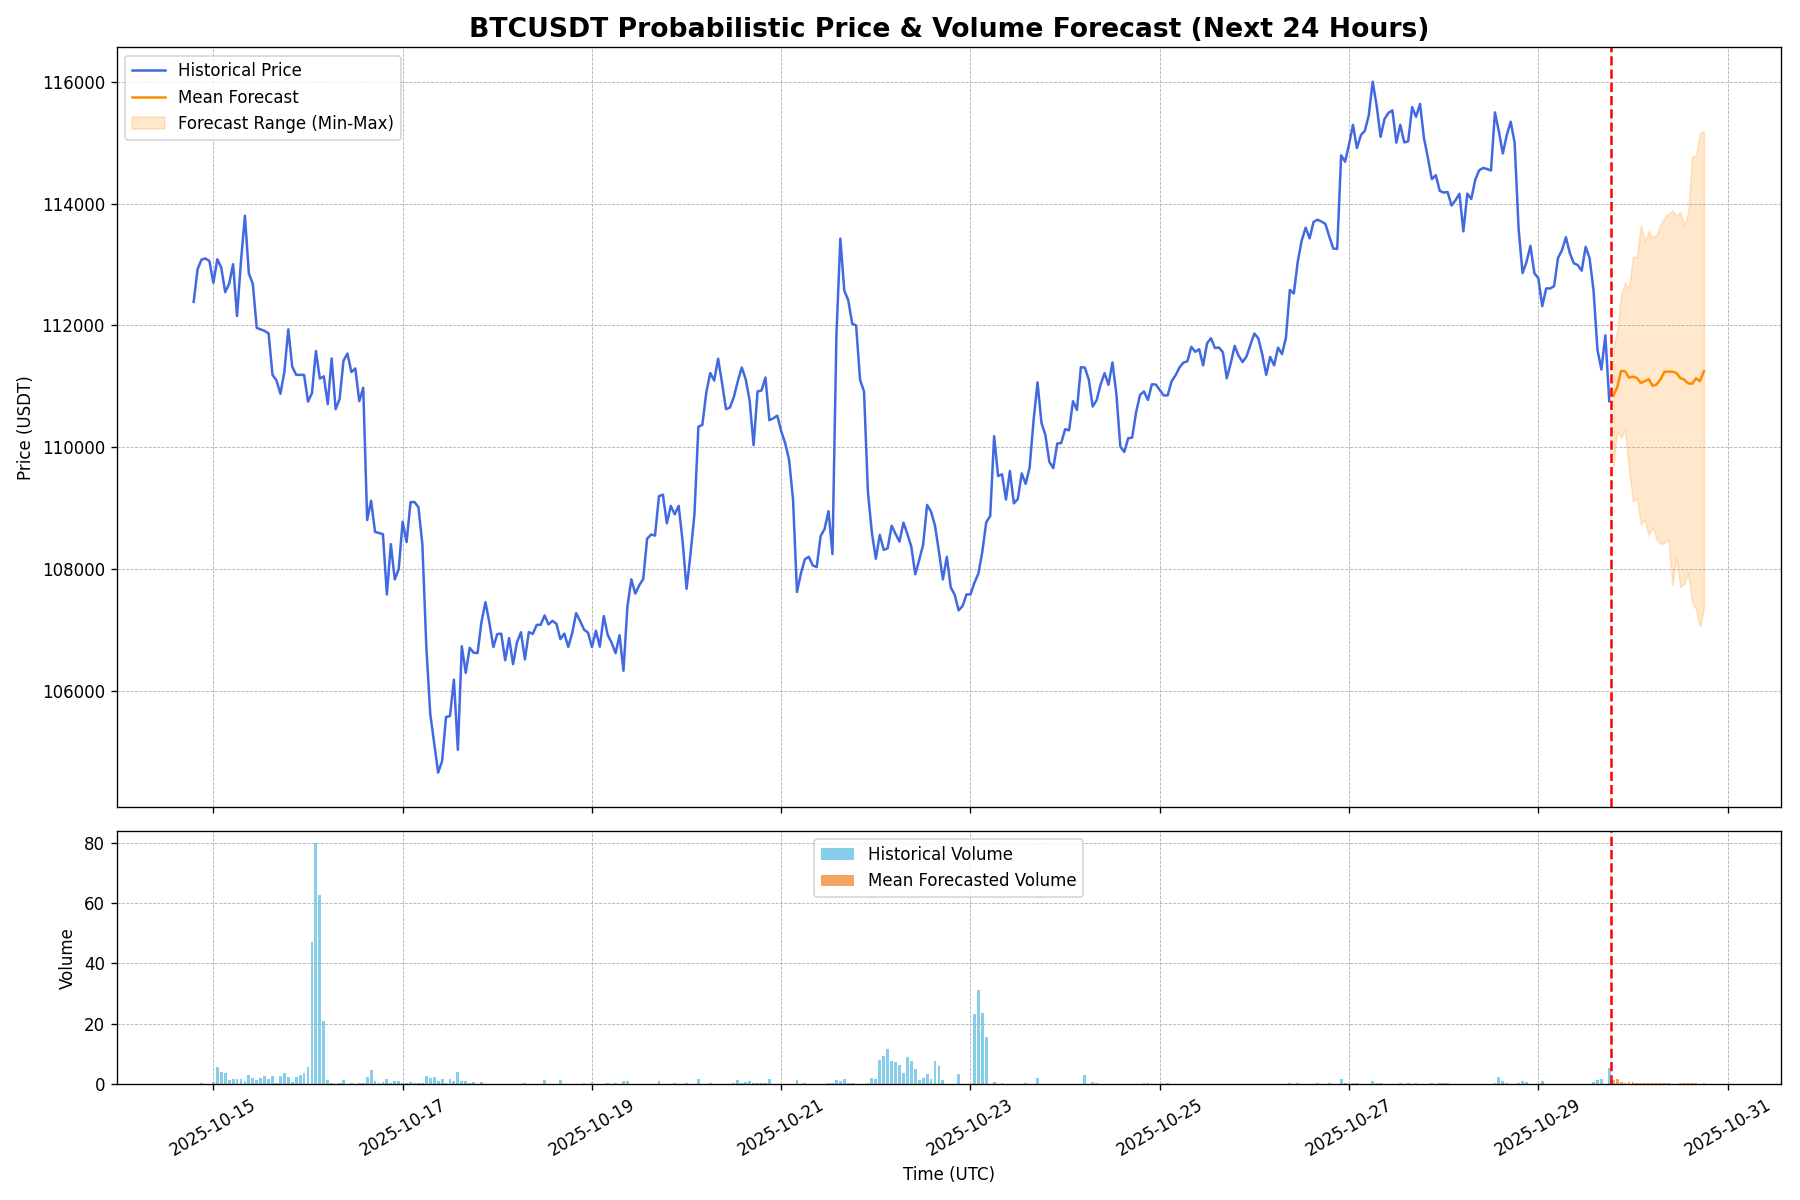
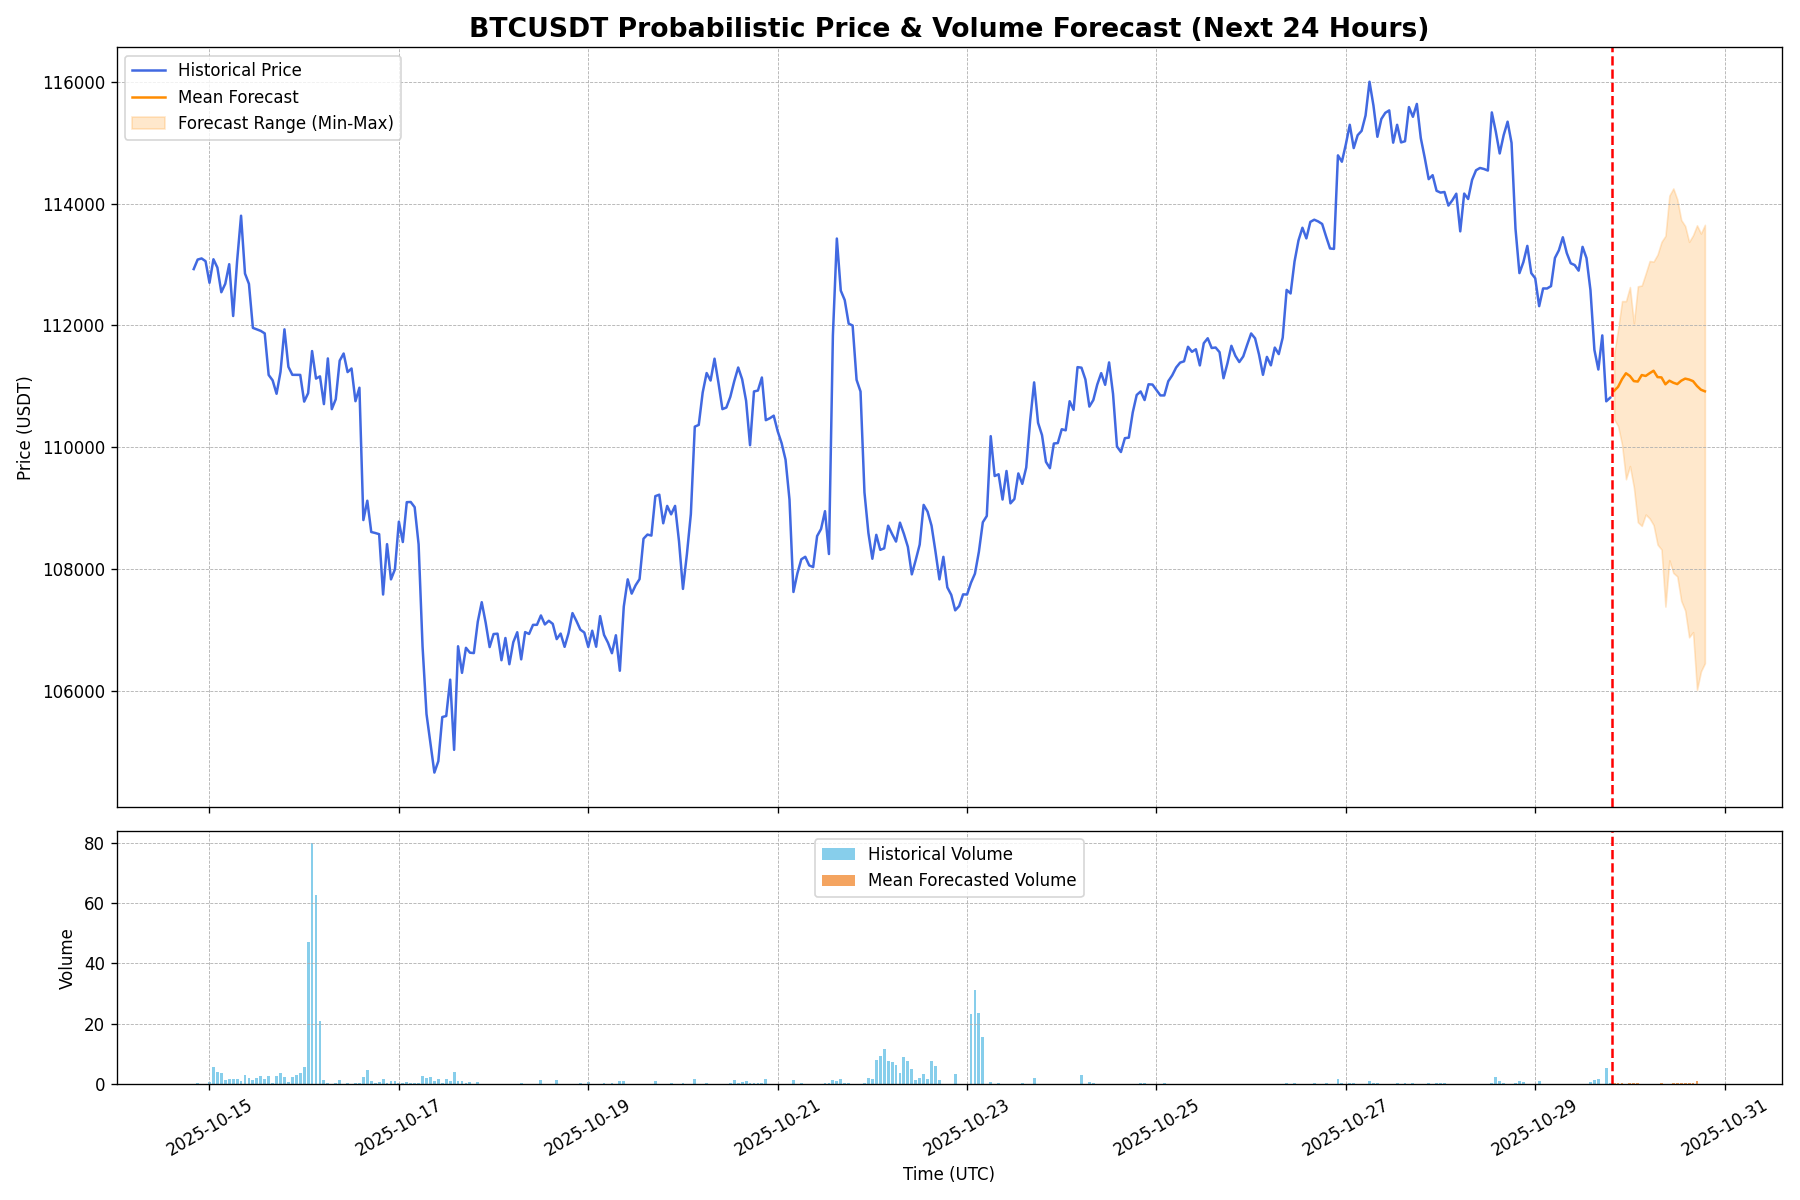
Auto-update forecast for 2025-10-29 20:06 UTC

diff --git a/index.html b/index.html
@@ -22,19 +22,19 @@
         <section id="live-dashboard">
             <h2>Live BTC/USDT Forecast Dashboard</h2>
             <div class="metadata">
-                <span>Last Updated (UTC): <strong id="update-time">2025-10-29 19:10:31</strong></span>
+                <span>Last Updated (UTC): <strong id="update-time">2025-10-29 20:06:23</strong></span>
                 <span>Data Source: Binance | Interval: 1-Hour</span>
             </div>
 
             <div class="metrics-container">
                 <div class="metric-card">
                     <h3>Upside Probability (Next 24h)</h3>
-                    <p class="metric-value" id="upside-prob">66.7%</p>
+                    <p class="metric-value" id="upside-prob">60.0%</p>
                     <div class="metric-desc">The model's confidence that the price in 24 hours will be higher than the last known price.</div>
                 </div>
                 <div class="metric-card">
                     <h3>Volatility Amplification (Next 24h)</h3>
-                    <p class="metric-value" id="vol-amp-prob">20.0%</p>
+                    <p class="metric-value" id="vol-amp-prob">10.0%</p>
                     <div class="metric-desc">The probability that predicted volatility over the next 24h will exceed recent historical volatility.</div>
                 </div>
             </div>
